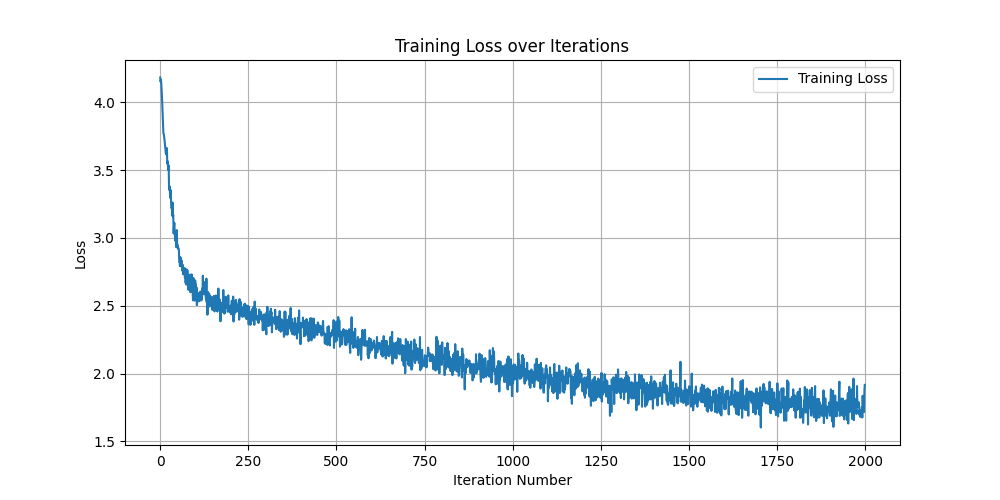
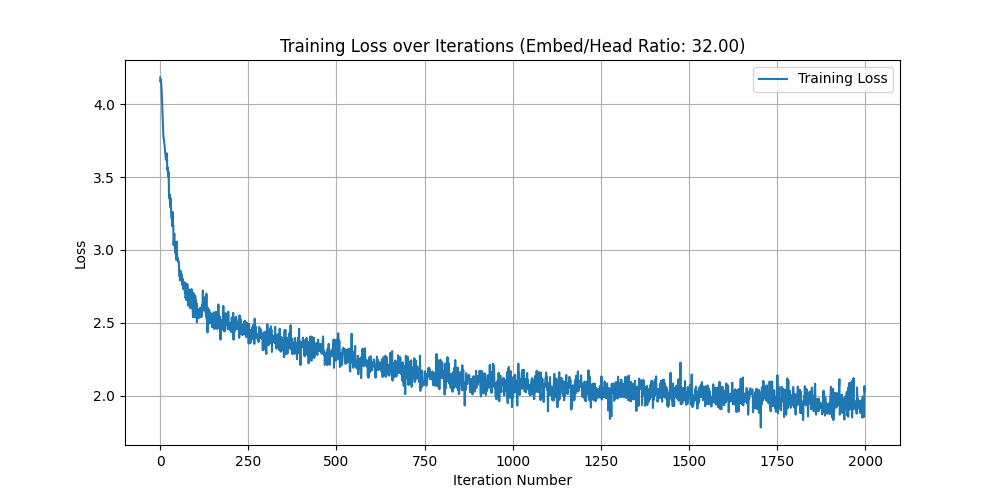
embed/head ratio added in the plot

diff --git a/train.py b/train.py
@@ -339,11 +339,12 @@ while True:
     if iter_num > max_iters:
         break
 
+    embed_head_ratio = n_embd / n_head
     plt.figure(figsize=(10, 5))
     plt.plot(iteration_nums, losses_l, label='Training Loss')
     plt.xlabel('Iteration Number')
     plt.ylabel('Loss')
-    plt.title('Training Loss over Iterations')
+    plt.title(f'Training Loss over Iterations (Embed/Head Ratio: {embed_head_ratio:.2f})')
     plt.legend()
     plt.grid(True)
     plt.savefig(f"{out_dir}/final_loss_plot.png")
